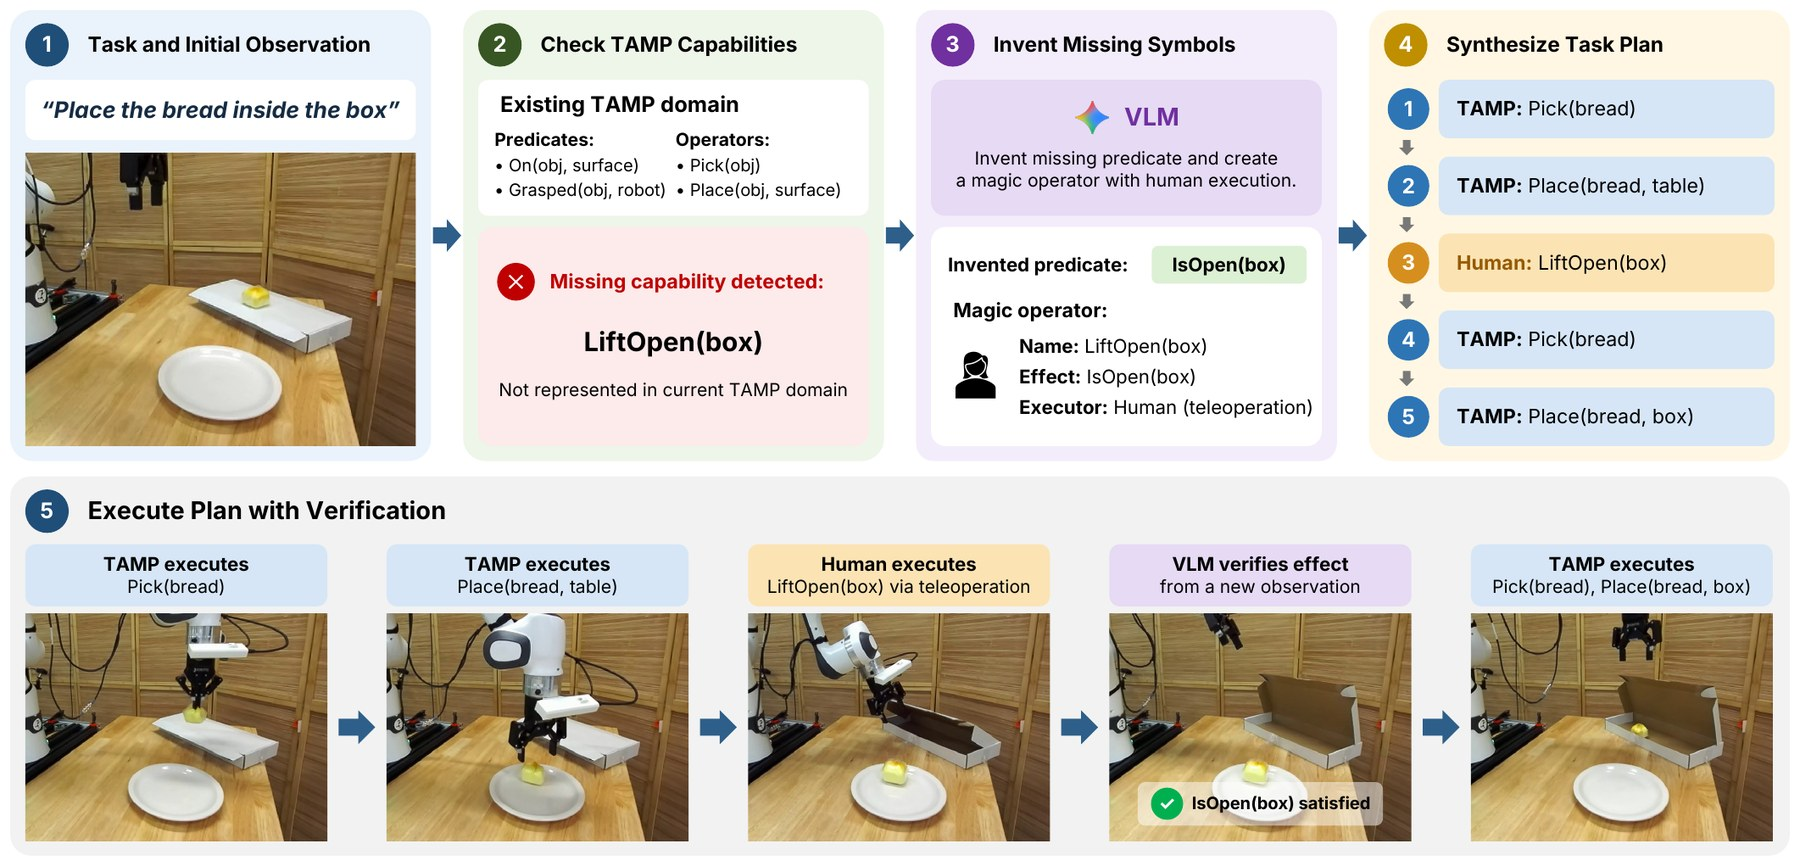
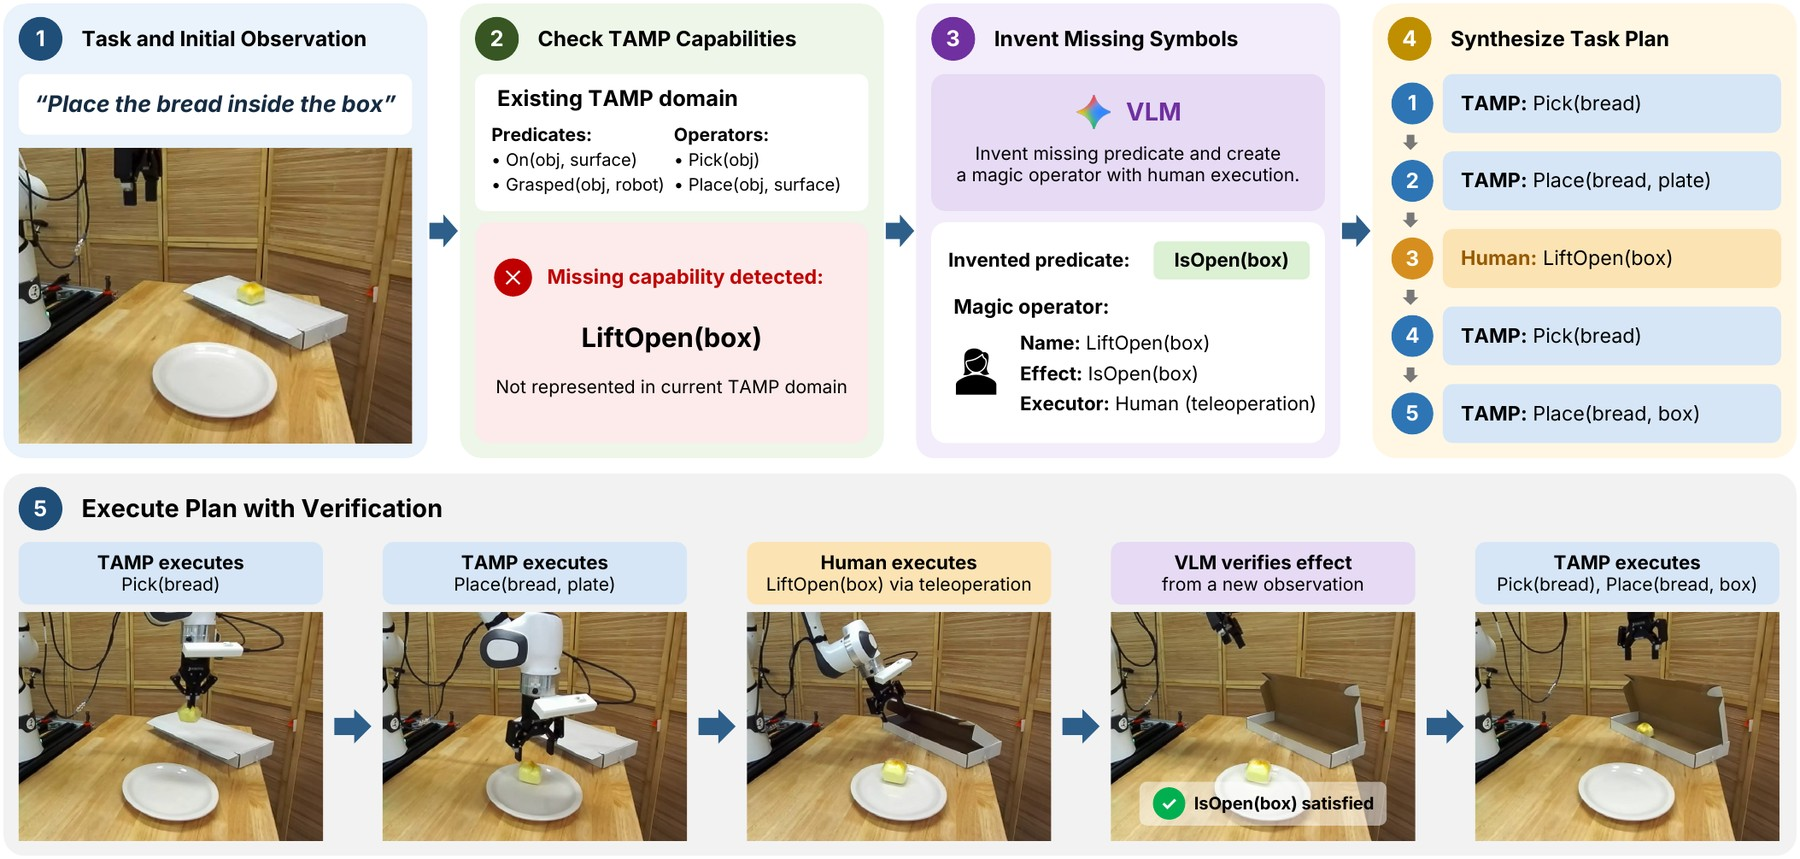
Use the paper's current figures and align text with figures
Re-crop Fig. 1 and the Fig. 2 method overview from the current paper
PDF. Let text blocks span the full content width so their right edges
line up with figures, charts, and videos, and narrow the content
column to 960px to keep lines readable. Drop the task-progress view
from the human-effort scaling chart.

diff --git a/index.html b/index.html
@@ -88,7 +88,7 @@
     </div>
 
     <figure class="fig spaced">
-      <img src="static/images/teaser.jpg" width="1800" height="508" loading="lazy" alt="Goal: place the bread rolls on the plate and cover them. TAMP can pick and place but cannot cover, with no human effort; teleoperation executes every stage with huge human effort; TANDEM uses TAMP for pick and place and a human only for covering, with low human effort. The collected dataset supervises π0.5 fine-tuning, and an illustrative plot shows policy success rate against human time for TANDEM, teleop, and TAMP." />
+      <img src="static/images/teaser.jpg" width="1800" height="498" loading="lazy" alt="Goal: place the bread rolls on the plate and cover them. TAMP can pick and place but cannot cover, with no human effort; teleoperation executes every stage with huge human effort; TANDEM uses TAMP for pick and place and a human only for covering, with low human effort. The collected dataset supervises π0.5 fine-tuning, and an illustrative plot shows policy success rate against human time for TANDEM, teleop, and TAMP." />
       <figcaption><b>TANDEM</b> combines autonomous task and motion planning (TAMP) with selective human teleoperation to collect demonstrations for vision-language-action (VLA) fine-tuning. TAMP executes pick-and-place behaviors, and humans handle behaviors beyond the planner's capabilities. This reduces human effort per demonstration. The plot (illustrative) shows how more demonstrations can improve policy performance at a fixed human-time budget.</figcaption>
     </figure>
   </div>
@@ -101,7 +101,7 @@
     <p class="sec-sub">Given a language instruction and an initial observation, TANDEM uses a VLM to extend its base TAMP domain. When the base controllers cannot achieve a desired state, the VLM jointly generates magic operators and any new predicates needed to express their preconditions and effects. The extended domain supports task planning with both autonomous and human execution.</p>
 
     <figure class="fig">
-      <img src="static/images/overview.jpg" width="1800" height="866" loading="lazy" alt="TANDEM overview for “Place the bread inside the box”: (1) task and initial observation; (2) the existing TAMP domain has On, Grasped, Pick and Place, and LiftOpen(box) is detected as a missing capability; (3) a VLM invents the predicate IsOpen(box) and a magic operator LiftOpen(box) executed by a human; (4) the task plan is TAMP Pick(bread), TAMP Place(bread, plate), Human LiftOpen(box), TAMP Pick(bread), TAMP Place(bread, box); (5) execution, where after the human opens the box a VLM verifies IsOpen(box) from a new observation before TAMP resumes." />
+      <img src="static/images/overview.jpg" width="1800" height="859" loading="lazy" alt="TANDEM overview for “Place the bread inside the box”: (1) task and initial observation; (2) the existing TAMP domain has On, Grasped, Pick and Place, and LiftOpen(box) is detected as a missing capability; (3) a VLM invents the predicate IsOpen(box) and a magic operator LiftOpen(box) executed by a human; (4) the task plan is TAMP Pick(bread), TAMP Place(bread, plate), Human LiftOpen(box), TAMP Pick(bread), TAMP Place(bread, box); (5) execution, where after the human opens the box a VLM verifies IsOpen(box) from a new observation before TAMP resumes." />
       <figcaption><b>Overview of TANDEM.</b> Given a language instruction and an initial visual observation, TANDEM uses a VLM to identify task requirements beyond the capabilities of the existing TAMP domain and automatically extends the domain with invented predicates and human-executed magic operators. The resulting task plan interleaves autonomous TAMP phases with human-assisted phases. TAMP executes the supported stages, while the human performs unsupported stages through teleoperation. After each human phase, TANDEM re-perceives the scene and verifies the intended effects before resuming autonomous planning.</figcaption>
     </figure>
 
@@ -235,7 +235,6 @@
         <div class="seg" role="group" aria-label="Metric" data-for="scale">
           <button class="active" data-metric="ep">Demonstrations</button>
           <button data-metric="sr">Success</button>
-          <button data-metric="prog">Task progress</button>
         </div>
       </div>
       <div class="legend" id="legend-scale"></div>

diff --git a/static/css/style.css b/static/css/style.css
@@ -22,7 +22,7 @@
   --tamp: #2e7d4f;
   --teleop: #2c5d93;
 
-  --max: 1040px;
+  --max: 960px;
   --font: 'Inter', -apple-system, BlinkMacSystemFont, 'Segoe UI', Roboto, Helvetica, Arial, sans-serif;
   --font-serif: 'Source Serif 4', Georgia, 'Times New Roman', serif;
   --font-mono: ui-monospace, SFMono-Regular, Menlo, Consolas, monospace;
@@ -63,8 +63,8 @@ nav.top a.link:hover { color: var(--ink); }
 
 /* ---------- left table of contents (wide screens) ---------- */
 .toc { display: none; }
-@media (min-width: 1480px) {
-  .toc { display: block; position: fixed; top: 116px; left: calc((100vw - 1040px) / 2 - 184px); width: 166px; z-index: 40; }
+@media (min-width: 1400px) {
+  .toc { display: block; position: fixed; top: 116px; left: calc((100vw - var(--max)) / 2 - 184px); width: 166px; z-index: 40; }
   nav.top a.link { display: none; }
 }
 .toc-hd { font-size: 11px; letter-spacing: .12em; text-transform: uppercase; color: var(--muted); margin: 0 0 10px 14px; }
@@ -103,8 +103,8 @@ h1.title {
 section { padding: 66px 0; border-top: 1px solid var(--line); }
 h2.sec { font-family: var(--font-serif); font-size: 27px; font-weight: 600; margin: 0 0 8px; letter-spacing: -.005em; }
 h3.sub { font-family: var(--font-serif); font-size: 20px; font-weight: 600; margin: 56px 0 8px; }
-.sec-sub { color: var(--muted); max-width: 680px; margin: 0 0 34px; font-size: 15.5px; }
-.prose { max-width: 700px; font-size: 16.5px; color: var(--ink-2); }
+.sec-sub { color: var(--muted); margin: 0 0 34px; font-size: 15.5px; }
+.prose { font-size: 16.5px; color: var(--ink-2); }
 .prose p { margin: 0 0 18px; }
 .prose p:last-child { margin-bottom: 0; }
 .prose b { color: var(--ink); font-weight: 600; }
@@ -113,9 +113,9 @@ h3.sub { font-family: var(--font-serif); font-size: 20px; font-weight: 600; marg
 figure { margin: 0; }
 .fig { margin: 0; }
 .fig img { width: 100%; height: auto; }
-.fig figcaption, .caption { color: var(--muted); font-size: 14px; line-height: 1.55; margin: 14px 0 0; max-width: 820px; text-align: left; }
+.fig figcaption, .caption { color: var(--muted); font-size: 14px; line-height: 1.55; margin: 14px 0 0; text-align: left; }
 .fig figcaption b, .caption b { color: var(--ink-2); font-weight: 600; }
-.teaser { margin: 44px auto 0; max-width: 940px; }
+.teaser { margin: 44px 0 0; }
 .teaser video { width: 100%; height: auto; aspect-ratio: 962 / 270; background: var(--bg-soft); }
 .fig.spaced { margin-top: 48px; }
 
@@ -199,7 +199,7 @@ figure { margin: 0; }
 .tip .r { display: flex; justify-content: space-between; gap: 14px; }
 .tip .r span:last-child { font-variant-numeric: tabular-nums; }
 .tip i { display: inline-block; width: 8px; height: 8px; margin-right: 6px; vertical-align: 0; }
-.chart-note { font-size: 13px; color: var(--muted); margin: 12px 0 0; max-width: 760px; }
+.chart-note { font-size: 13px; color: var(--muted); margin: 12px 0 0; }
 
 /* ---------- collection attempts (stacked horizontal bars) ---------- */
 .fail-chart { position: relative; display: grid; gap: 12px; margin-top: 4px; }
@@ -214,6 +214,7 @@ figure { margin: 0; }
 .faxis .ticks { position: relative; height: 18px; border-top: 1px solid var(--axis); }
 .faxis .ticks span { position: absolute; top: 3px; transform: translateX(-50%); font-size: 11px; color: var(--muted); font-variant-numeric: tabular-nums; }
 .faxis .ticks span:first-child { transform: none; }
+.faxis .ticks span:last-child { transform: translateX(-100%); }
 @media (max-width: 760px) {
   .frow { grid-template-columns: 1fr; gap: 5px; }
   .faxis { grid-template-columns: 1fr; gap: 0; }
@@ -245,7 +246,7 @@ table.res .grp { border-left: 1px solid var(--line); }
 @media (max-width: 760px) { .findings { grid-template-columns: 1fr; } }
 
 /* ---------- bibtex ---------- */
-.bib { position: relative; max-width: 700px; }
+.bib { position: relative; }
 .bib pre {
   background: var(--bg-soft); color: var(--ink-2); border: 1px solid var(--line);
   padding: 18px 20px; font-family: var(--font-mono); font-size: 13px; line-height: 1.6;

diff --git a/static/js/main.js b/static/js/main.js
@@ -39,13 +39,11 @@
   var SCALE_X = [262, 524, 785, 1047];
   var SCALE = {
     ep:   { ours: [20, 40, 60, 80], human: [7, 14, 21, 28] },
-    sr:   { ours: [45, 75, 80, 75], human: [30, 30, 50, 65] },
-    prog: { ours: [68, 90, 94, 85], human: [71, 63, 75, 91] }
+    sr:   { ours: [45, 75, 80, 75], human: [30, 30, 50, 65] }
   };
   var SCALE_NOTES = {
     ep: 'TANDEM collects approximately 2.9× more demonstrations than full-task teleoperation at matched human-time budgets. For example, with 524 s of human intervention, TANDEM collects 40 demonstrations compared with 14 for oracle teleoperation; with 785 s, it collects 60 compared with 21.',
-    sr: 'Success of π0.5-DROID fine-tuned on the demonstrations collected at each budget. TANDEM achieves 45%, 75%, 80%, and 75% success across the four human-effort budgets, compared with 30%, 30%, 50%, and 65% for Human teleop (oracle).',
-    prog: 'Task progress of the same fine-tuned policies. Teleoperation is higher at 262 s and 1047 s; TANDEM is higher at 524 s and 785 s.'
+    sr: 'Success of π0.5-DROID fine-tuned on the demonstrations collected at each budget. TANDEM achieves 45%, 75%, 80%, and 75% success across the four human-effort budgets, compared with 30%, 30%, 50%, and 65% for Human teleop (oracle).'
   };
 
   // Table I + Table III: collection attempts and failure attribution
@@ -111,7 +109,7 @@
       var W = Math.max(container.clientWidth, 280);
       var narrow = W < 560;
       var H = opts.height || (narrow ? 280 : 320);
-      var m = { t: 22, r: 8, b: 44, l: 34 };
+      var m = { t: 22, r: 1, b: 44, l: 34 };
       var iw = W - m.l - m.r, ih = H - m.t - m.b;
       var cats = opts.cats, keys = opts.keys, data = opts.data();
       var gw = iw / cats.length;
@@ -186,7 +184,7 @@
       var axis = m0 === 'ep' ? { max: 80, ticks: [0, 20, 40, 60, 80], fmt: String } : PERCENT_AXIS;
       var W = Math.max(container.clientWidth, 260);
       var H = 290;
-      var m = { t: 22, r: 16, b: 40, l: 38 };
+      var m = { t: 22, r: 1, b: 40, l: 38 };
       var iw = W - m.l - m.r, ih = H - m.t - m.b;
       var inset = Math.min(40, iw * 0.07);
       var x = function (s) { return m.l + inset + (s - SCALE_X[0]) / (SCALE_X[SCALE_X.length - 1] - SCALE_X[0]) * (iw - 2 * inset); };
